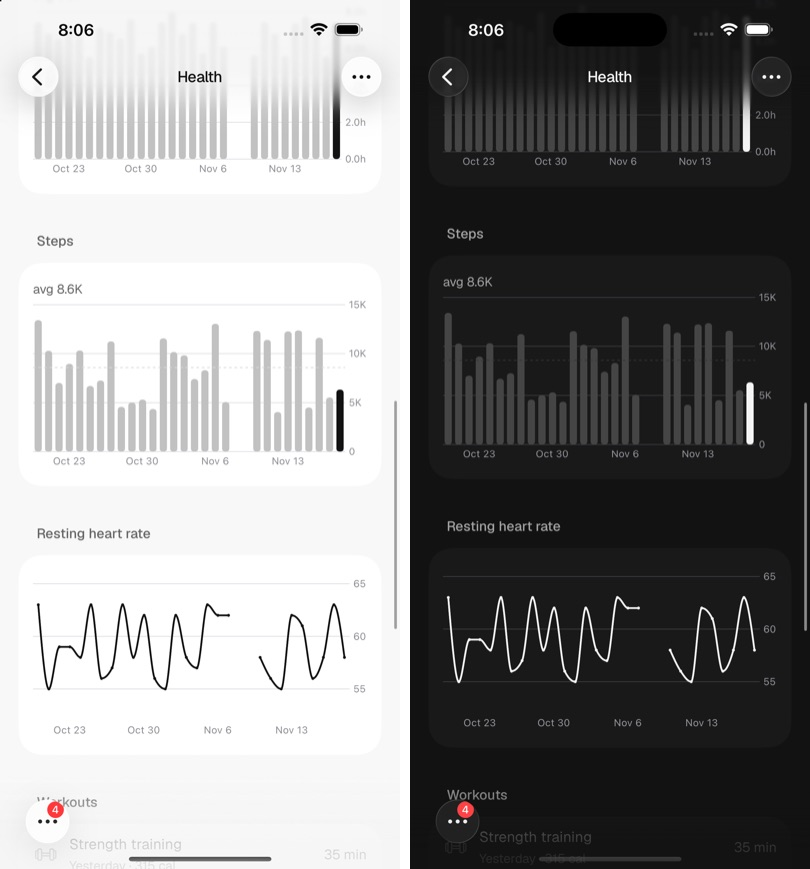
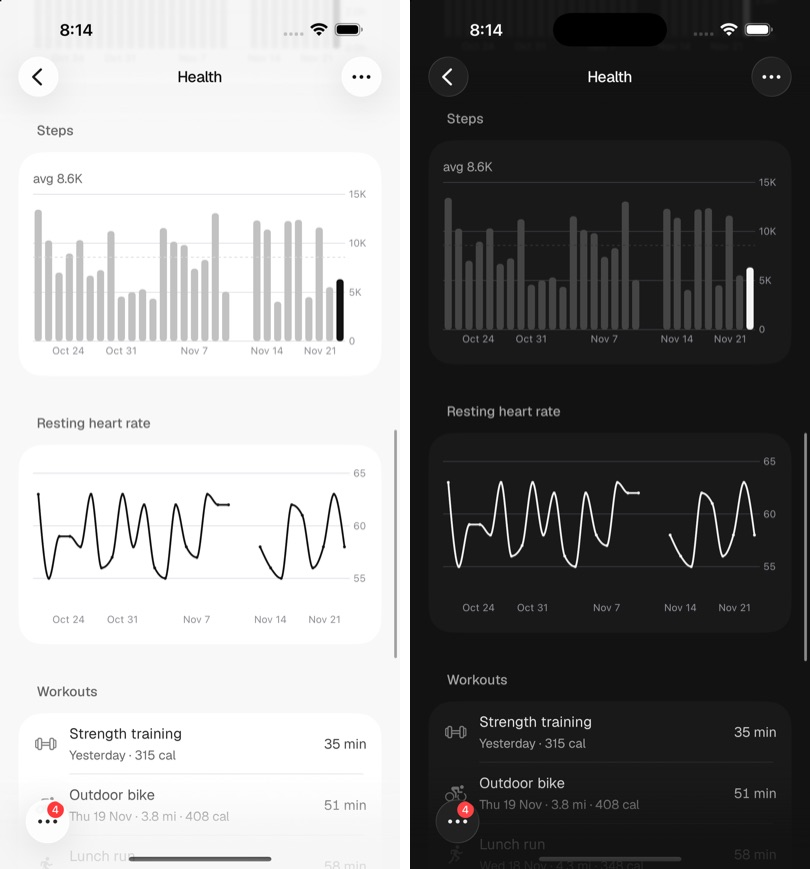
iPhone app: Health chart dates count back from today

diff --git a/ios/LukeOS/Features/More/HealthScreen.swift b/ios/LukeOS/Features/More/HealthScreen.swift
@@ -83,6 +83,13 @@ enum HealthMath {
         return nil
     }
 
+    /// The days labelled under a chart: every day for a week, otherwise today and every 7th day
+    /// before it, so the newest week is always labelled. Oldest first.
+    static func axisDays(today: String, range: Int) -> [String] {
+        let step = range <= 7 ? 1 : 7
+        return stride(from: 0, to: range, by: step).map { Day.add(today, days: -$0) }.reversed()
+    }
+
     /// Splits a day-by-day series into unbroken stretches (a day without a value ends one).
     static func runs(_ values: [(String, Double?)]) -> [(id: Int, points: [(String, Double)])] {
         var out: [(id: Int, points: [(String, Double)])] = []
@@ -465,8 +472,12 @@ struct HealthScreen: View {
     }
 
     private var dayAxis: some AxisContent {
-        AxisMarks(values: .stride(by: .day, count: range == 7 ? 1 : 7)) {
-            AxisValueLabel(format: range == 7 ? .dateTime.weekday(.narrow) : .dateTime.day().month(.abbreviated), centered: true)
+        // Marks at midday sit in the middle of each day's bar (Charts drops the last label when asked to centre it).
+        // On the 30-day view the first and last dates line up with their bars' outer edges so neither is cut off.
+        AxisMarks(values: HealthMath.axisDays(today: today, range: range).map { Day.toLocal($0).addingTimeInterval(12 * 3600) }) { value in
+            let anchor: UnitPoint = range <= 7 ? .top : value.index == 0 ? .topLeading : value.index == value.count - 1 ? .topTrailing : .top
+            AxisValueLabel(format: range == 7 ? .dateTime.weekday(.narrow) : .dateTime.day().month(.abbreviated),
+                           centered: false, anchor: anchor)
         }
     }
 

diff --git a/ios/Tests/HealthTests.swift b/ios/Tests/HealthTests.swift
@@ -56,6 +56,12 @@ final class HealthTests: XCTestCase {
         XCTAssertTrue(full.hasAnyData)
     }
 
+    func testAxisIsAnchoredAtToday() {
+        XCTAssertEqual(HealthMath.axisDays(today: "2026-11-21", range: 30), ["2026-10-24", "2026-10-31", "2026-11-07", "2026-11-14", "2026-11-21"])
+        XCTAssertEqual(HealthMath.axisDays(today: "2026-11-21", range: 7).count, 7)
+        XCTAssertEqual(HealthMath.axisDays(today: "2026-11-21", range: 7).last, "2026-11-21")
+    }
+
     func testLinesBreakAtMissingDays() {
         let r = HealthMath.runs([("a", 1), ("b", nil), ("c", 3), ("d", 4), ("e", nil)])
         XCTAssertEqual(r.map { $0.points.map(\.0) }, [["a"], ["c", "d"]])

diff --git a/ios/docs/SCREENS.md b/ios/docs/SCREENS.md
@@ -165,7 +165,7 @@ Screenshots: `ios/screenshots/health/` (light and dark pairs). Code: `ios/LukeOS
 - **Today**: four `StatTile`s (steps, resting heart rate, active zone minutes, distance in miles). Each has its 7-day average, whatever the range picker says. A missing value shows a dash, never 0.
 - **7 days / 30 days**: a segmented control for everything below it (Body, charts).
 - **Body**: breathing rate, blood oxygen, HRV, skin temperature against baseline (°F, signed, rounded to 0.1, "0.0°F" for no change) and VO2 max. Each row shows the latest value and the range average. Rows with no data in the range are hidden, as is the whole group if none have data.
-- **Charts**: sleep hours and steps as bars (today in ink, a dashed average line), resting heart rate as a line. Days without data are gaps, not zeros, and the line breaks across them. Each chart has one VoiceOver label with its average.
+- **Charts**: sleep hours and steps as bars (today in ink, a dashed average line), resting heart rate as a line. Days without data are gaps, not zeros, and the line breaks across them. The day labels count back from today (every day on 7 days, every 7th on 30), so today is always labelled. Each chart has one VoiceOver label with its average.
 - **Workouts**: the last eight, newest first. The title is the name Luke gave the workout in the Fitbit app if there is one, otherwise Google's type made readable ("STRENGTH_TRAINING" → "Strength training", "HIIT" stays). Each row also shows an icon for the type, the day, distance in miles and calories when there, and minutes.
 - **Footer**: "From Fitbit · updated <when>" from `lastSyncAt`.
 - **Menu (…)**: Update now and Disconnect Fitbit. Disconnect asks first ("You'll need your computer to connect again."). Both are sent straight away and never queued. Offline shows the toast "You're offline."; a server error shows its message as a toast. Update now waits up to 120 s, since the server talks to Google, then reloads. Pull to refresh reloads `get_health` without syncing.
